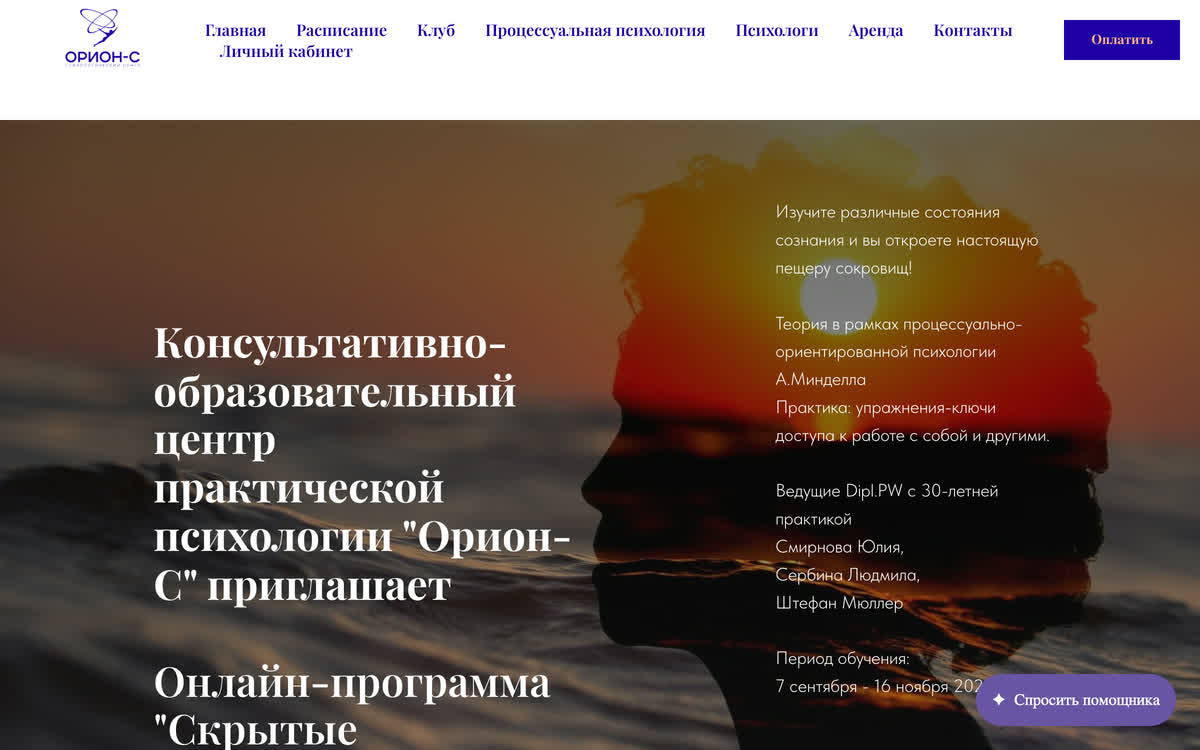
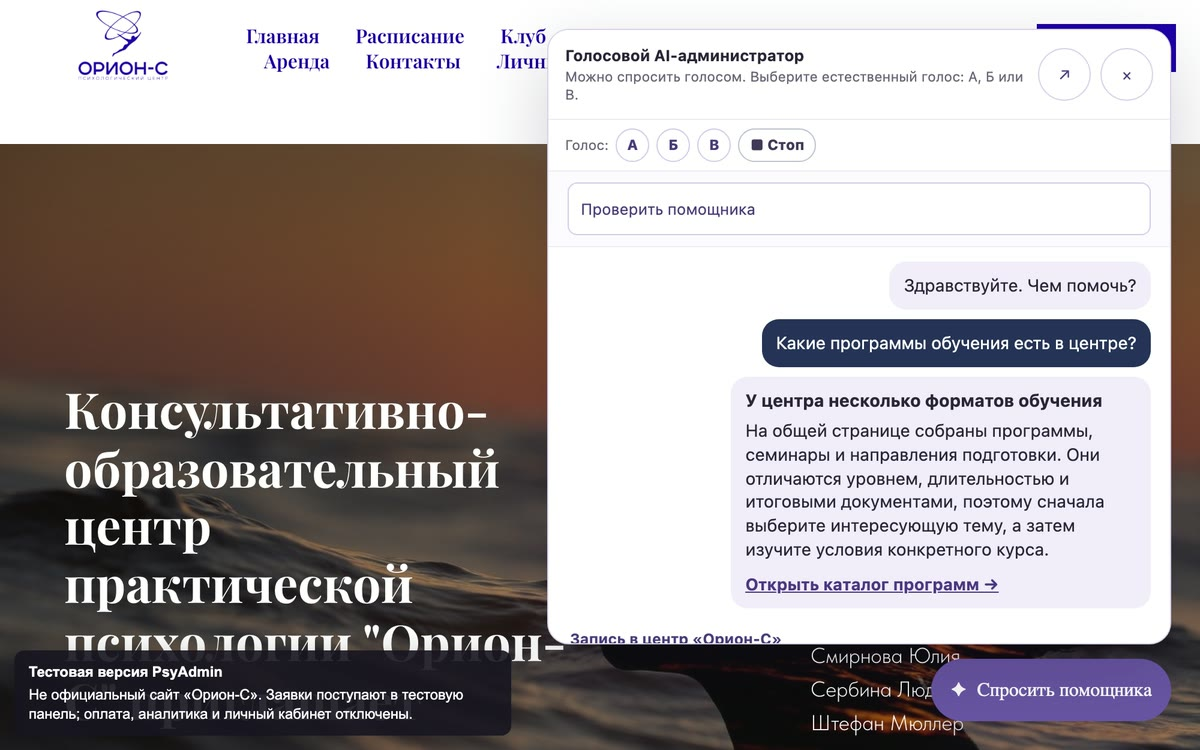
Кадр Psy Admin: на нём теперь виден сам помощник
Сергей: «на картинке нет моего помощника, а вся фишка в помощнике».

Снято с живой v1 на бою: открыт помощник, задан настоящий вопрос «какие
программы обучения есть в центре», получен настоящий ответ по страницам
центра, рядом видны кнопки выбора голоса и запись в центр. Ничего не
подставлено и не нарисовано — это снимок работающей страницы.

Кадр снят на 1000×625 вместо 1280×860 намеренно: на широком окне панель
занимала треть ширины и «фишка» опять терялась в общей странице. Тот же
файл идёт и на карточку, и в обе версии «Пути».

Alt и подпись переписаны под то, что на кадре есть сейчас: раньше они
обещали кнопку в углу закрытой страницы, а теперь там разговор.

По дороге поймал свою же ошибку в съёмочном скрипте: искал поле ввода
селектором input[type=text], а у поля атрибута type нет вовсе — селектор не
совпадал, вопрос уходил пустым, и в ответе оставалось только приветствие.
Снимок при этом получался и выглядел правдоподобно.

diff --git a/index.html b/index.html
@@ -321,10 +321,10 @@
 }
 </style>
 <h2>Живой цех</h2>
-<p class="svezhest">снимок 05:34 · цех работал в эту минуту</p>
-<div class="plitki"><div class="plitka"><b>54%</b><span>Процессор</span></div><div class="plitka"><b>23%</b><span>Видеоядро</span></div><div class="plitka"><b>12 ГБ</b><span>Свободно памяти</span></div><div class="plitka"><b>24 ГБ</b><span>Всего памяти</span></div></div>
-<ol class="zadachi"><li class="running"><div class="verh"><span class="kto">сессия</span><span class="kogda">только что</span></div><div class="niz"><span class="chto">задача 20</span><span class="skolko">16 событий · идёт 7 мин · mac · running</span></div></li><li class="running"><div class="verh"><span class="kto">сессия</span><span class="kogda">только что</span></div><div class="niz"><span class="chto">задача 30</span><span class="skolko">2 событий · mac · running</span></div></li><li class="completed"><div class="verh"><span class="kto">сессия</span><span class="kogda">4 мин назад</span></div><div class="niz"><span class="chto">задача 31</span><span class="skolko">82 событий · идёт 5 мин · mac · completed</span></div></li><li class="completed"><div class="verh"><span class="kto">Рот</span><span class="kogda">6 мин назад</span></div><div class="niz"><span class="chto">задача 2</span><span class="skolko">15 событий · идёт 3 мин · mac · completed</span></div></li><li class="completed"><div class="verh"><span class="kto">сессия</span><span class="kogda">6 мин назад</span></div><div class="niz"><span class="chto">задача 3</span><span class="skolko">5 событий · mac · completed</span></div></li></ol>
-<details class="lenta"><summary>Лента событий — последние 40 из 120</summary><ol><li><span class="kto">сессия</span><span class="chto">задача 20</span><span class="kogda">только что</span></li><li><span class="kto">сессия</span><span class="chto">задача 30</span><span class="kogda">только что</span></li><li><span class="kto">сессия</span><span class="chto">задача 30</span><span class="kogda">только что</span></li><li><span class="kto">сессия</span><span class="chto">задача 20</span><span class="kogda">2 мин назад</span></li><li><span class="kto">сессия</span><span class="chto">задача 20</span><span class="kogda">3 мин назад</span></li><li><span class="kto">сессия</span><span class="chto">задача 20</span><span class="kogda">3 мин назад</span></li><li><span class="kto">сессия</span><span class="chto">задача 31</span><span class="kogda">4 мин назад</span></li><li><span class="kto">сессия</span><span class="chto">задача 31</span><span class="kogda">4 мин назад</span></li><li><span class="kto">сессия</span><span class="chto">задача 20</span><span class="kogda">4 мин назад</span></li><li><span class="kto">сессия</span><span class="chto">задача 31</span><span class="kogda">4 мин назад</span></li><li><span class="kto">сессия</span><span class="chto">задача 31</span><span class="kogda">4 мин назад</span></li><li><span class="kto">сессия</span><span class="chto">задача 31</span><span class="kogda">4 мин назад</span></li><li><span class="kto">сессия</span><span class="chto">задача 31</span><span class="kogda">4 мин назад</span></li><li><span class="kto">сессия</span><span class="chto">задача 31</span><span class="kogda">5 мин назад</span></li><li><span class="kto">сессия</span><span class="chto">задача 31</span><span class="kogda">5 мин назад</span></li><li><span class="kto">сессия</span><span class="chto">задача 31</span><span class="kogda">5 мин назад</span></li><li><span class="kto">сессия</span><span class="chto">задача 31</span><span class="kogda">5 мин назад</span></li><li><span class="kto">сессия</span><span class="chto">задача 31</span><span class="kogda">5 мин назад</span></li><li><span class="kto">сессия</span><span class="chto">задача 31</span><span class="kogda">5 мин назад</span></li><li><span class="kto">сессия</span><span class="chto">задача 31</span><span class="kogda">5 мин назад</span></li><li><span class="kto">сессия</span><span class="chto">задача 31</span><span class="kogda">5 мин назад</span></li><li><span class="kto">сессия</span><span class="chto">задача 20</span><span class="kogda">5 мин назад</span></li><li><span class="kto">сессия</span><span class="chto">задача 31</span><span class="kogda">5 мин назад</span></li><li><span class="kto">сессия</span><span class="chto">задача 31</span><span class="kogda">5 мин назад</span></li><li><span class="kto">сессия</span><span class="chto">задача 20</span><span class="kogda">5 мин назад</span></li><li><span class="kto">сессия</span><span class="chto">задача 20</span><span class="kogda">5 мин назад</span></li><li><span class="kto">сессия</span><span class="chto">задача 31</span><span class="kogda">5 мин назад</span></li><li><span class="kto">сессия</span><span class="chto">задача 31</span><span class="kogda">5 мин назад</span></li><li><span class="kto">сессия</span><span class="chto">задача 31</span><span class="kogda">5 мин назад</span></li><li><span class="kto">сессия</span><span class="chto">задача 31</span><span class="kogda">5 мин назад</span></li><li><span class="kto">сессия</span><span class="chto">задача 31</span><span class="kogda">5 мин назад</span></li><li><span class="kto">сессия</span><span class="chto">задача 31</span><span class="kogda">5 мин назад</span></li><li><span class="kto">сессия</span><span class="chto">задача 31</span><span class="kogda">5 мин назад</span></li><li><span class="kto">сессия</span><span class="chto">задача 31</span><span class="kogda">5 мин назад</span></li><li><span class="kto">сессия</span><span class="chto">задача 31</span><span class="kogda">5 мин назад</span></li><li><span class="kto">сессия</span><span class="chto">задача 31</span><span class="kogda">5 мин назад</span></li><li><span class="kto">сессия</span><span class="chto">задача 31</span><span class="kogda">5 мин назад</span></li><li><span class="kto">Рот</span><span class="chto">задача 2</span><span class="kogda">6 мин назад</span></li><li><span class="kto">Рот</span><span class="chto">задача 2</span><span class="kogda">6 мин назад</span></li><li><span class="kto">сессия</span><span class="chto">задача 31</span><span class="kogda">6 мин назад</span></li></ol></details>
+<p class="svezhest">снимок 05:39 · цех работал в эту минуту</p>
+<div class="plitki"><div class="plitka"><b>97%</b><span>Процессор</span></div><div class="plitka"><b>59%</b><span>Видеоядро</span></div><div class="plitka"><b>7 ГБ</b><span>Свободно памяти</span></div><div class="plitka"><b>24 ГБ</b><span>Всего памяти</span></div></div>
+<ol class="zadachi"><li class="running"><div class="verh"><span class="kto">сессия</span><span class="kogda">1 мин назад</span></div><div class="niz"><span class="chto">задача 20</span><span class="skolko">23 событий · идёт 13 мин · mac · running</span></div></li><li class="completed"><div class="verh"><span class="kto">сессия</span><span class="kogda">4 мин назад</span></div><div class="niz"><span class="chto">задача 30</span><span class="skolko">24 событий · идёт 1 мин · mac · completed</span></div></li><li class="completed"><div class="verh"><span class="kto">сессия</span><span class="kogda">9 мин назад</span></div><div class="niz"><span class="chto">задача 31</span><span class="skolko">57 событий · идёт 4 мин · mac · completed</span></div></li><li class="completed"><div class="verh"><span class="kto">Рот</span><span class="kogda">11 мин назад</span></div><div class="niz"><span class="chto">задача 2</span><span class="skolko">11 событий · идёт 2 мин · mac · completed</span></div></li><li class="completed"><div class="verh"><span class="kto">сессия</span><span class="kogda">12 мин назад</span></div><div class="niz"><span class="chto">задача 3</span><span class="skolko">5 событий · mac · completed</span></div></li></ol>
+<details class="lenta"><summary>Лента событий — последние 40 из 120</summary><ol><li><span class="kto">сессия</span><span class="chto">задача 20</span><span class="kogda">1 мин назад</span></li><li><span class="kto">сессия</span><span class="chto">задача 20</span><span class="kogda">1 мин назад</span></li><li><span class="kto">сессия</span><span class="chto">задача 20</span><span class="kogda">1 мин назад</span></li><li><span class="kto">сессия</span><span class="chto">задача 20</span><span class="kogda">2 мин назад</span></li><li><span class="kto">сессия</span><span class="chto">задача 20</span><span class="kogda">3 мин назад</span></li><li><span class="kto">сессия</span><span class="chto">задача 20</span><span class="kogda">3 мин назад</span></li><li><span class="kto">сессия</span><span class="chto">задача 20</span><span class="kogda">4 мин назад</span></li><li><span class="kto">сессия</span><span class="chto">задача 20</span><span class="kogda">4 мин назад</span></li><li><span class="kto">сессия</span><span class="chto">задача 30</span><span class="kogda">4 мин назад</span></li><li><span class="kto">сессия</span><span class="chto">задача 30</span><span class="kogda">4 мин назад</span></li><li><span class="kto">сессия</span><span class="chto">задача 30</span><span class="kogda">5 мин назад</span></li><li><span class="kto">сессия</span><span class="chto">задача 30</span><span class="kogda">5 мин назад</span></li><li><span class="kto">сессия</span><span class="chto">задача 30</span><span class="kogda">5 мин назад</span></li><li><span class="kto">сессия</span><span class="chto">задача 30</span><span class="kogda">5 мин назад</span></li><li><span class="kto">сессия</span><span class="chto">задача 30</span><span class="kogda">5 мин назад</span></li><li><span class="kto">сессия</span><span class="chto">задача 30</span><span class="kogda">5 мин назад</span></li><li><span class="kto">сессия</span><span class="chto">задача 30</span><span class="kogda">5 мин назад</span></li><li><span class="kto">сессия</span><span class="chto">задача 30</span><span class="kogda">5 мин назад</span></li><li><span class="kto">сессия</span><span class="chto">задача 30</span><span class="kogda">6 мин назад</span></li><li><span class="kto">сессия</span><span class="chto">задача 30</span><span class="kogda">6 мин назад</span></li><li><span class="kto">сессия</span><span class="chto">задача 30</span><span class="kogda">6 мин назад</span></li><li><span class="kto">сессия</span><span class="chto">задача 30</span><span class="kogda">6 мин назад</span></li><li><span class="kto">сессия</span><span class="chto">задача 30</span><span class="kogda">6 мин назад</span></li><li><span class="kto">сессия</span><span class="chto">задача 30</span><span class="kogda">6 мин назад</span></li><li><span class="kto">сессия</span><span class="chto">задача 30</span><span class="kogda">6 мин назад</span></li><li><span class="kto">сессия</span><span class="chto">задача 30</span><span class="kogda">6 мин назад</span></li><li><span class="kto">сессия</span><span class="chto">задача 30</span><span class="kogda">6 мин назад</span></li><li><span class="kto">сессия</span><span class="chto">задача 30</span><span class="kogda">6 мин назад</span></li><li><span class="kto">сессия</span><span class="chto">задача 30</span><span class="kogda">6 мин назад</span></li><li><span class="kto">сессия</span><span class="chto">задача 30</span><span class="kogda">6 мин назад</span></li><li><span class="kto">сессия</span><span class="chto">задача 30</span><span class="kogda">6 мин назад</span></li><li><span class="kto">сессия</span><span class="chto">задача 30</span><span class="kogda">6 мин назад</span></li><li><span class="kto">сессия</span><span class="chto">задача 20</span><span class="kogda">8 мин назад</span></li><li><span class="kto">сессия</span><span class="chto">задача 20</span><span class="kogda">9 мин назад</span></li><li><span class="kto">сессия</span><span class="chto">задача 20</span><span class="kogda">9 мин назад</span></li><li><span class="kto">сессия</span><span class="chto">задача 31</span><span class="kogda">9 мин назад</span></li><li><span class="kto">сессия</span><span class="chto">задача 31</span><span class="kogda">9 мин назад</span></li><li><span class="kto">сессия</span><span class="chto">задача 20</span><span class="kogda">10 мин назад</span></li><li><span class="kto">сессия</span><span class="chto">задача 31</span><span class="kogda">10 мин назад</span></li><li><span class="kto">сессия</span><span class="chto">задача 31</span><span class="kogda">10 мин назад</span></li></ol></details>
 </section>
         </div>
       </section>
@@ -337,7 +337,7 @@
         </div>
         <div class="grid" data-shared-details>
         <article class="card" id="p-psy-ai-admin">
-          <a class="card-shot-link" href="/psy-admin/" data-umami-event="project-open" data-umami-event-project="psy-admin" aria-label="Открыть: Psy AI Admin"><figure class="shot"><img src="/assets/shots/psy-admin-2026.jpg?v=97cfcf1f" alt="Главная сайта «Орион-С» с помощником: кнопка «Спросить помощника» в правом нижнем углу живой страницы заказчицы"
+          <a class="card-shot-link" href="/psy-admin/" data-umami-event="project-open" data-umami-event-project="psy-admin" aria-label="Открыть: Psy AI Admin"><figure class="shot"><img src="/assets/shots/psy-admin-2026.jpg?v=9e324695" alt="Живой сайт «Орион-С» с открытым помощником: на вопрос «какие программы обучения есть в центре» он отвечает по страницам центра, рядом кнопки выбора голоса"
                 width="1200" height="750" decoding="async" loading="lazy" fetchpriority="low"></figure></a>
           <div class="card-head">
             <p class="kicker">Продукт · демо</p>

diff --git a/data/tseh/zhivoy-tseh.html b/data/tseh/zhivoy-tseh.html
@@ -46,8 +46,8 @@
 }
 </style>
 <h2>Живой цех</h2>
-<p class="svezhest">снимок 05:34 · цех работал в эту минуту</p>
-<div class="plitki"><div class="plitka"><b>54%</b><span>Процессор</span></div><div class="plitka"><b>23%</b><span>Видеоядро</span></div><div class="plitka"><b>12 ГБ</b><span>Свободно памяти</span></div><div class="plitka"><b>24 ГБ</b><span>Всего памяти</span></div></div>
-<ol class="zadachi"><li class="running"><div class="verh"><span class="kto">сессия</span><span class="kogda">только что</span></div><div class="niz"><span class="chto">задача 20</span><span class="skolko">16 событий · идёт 7 мин · mac · running</span></div></li><li class="running"><div class="verh"><span class="kto">сессия</span><span class="kogda">только что</span></div><div class="niz"><span class="chto">задача 30</span><span class="skolko">2 событий · mac · running</span></div></li><li class="completed"><div class="verh"><span class="kto">сессия</span><span class="kogda">4 мин назад</span></div><div class="niz"><span class="chto">задача 31</span><span class="skolko">82 событий · идёт 5 мин · mac · completed</span></div></li><li class="completed"><div class="verh"><span class="kto">Рот</span><span class="kogda">6 мин назад</span></div><div class="niz"><span class="chto">задача 2</span><span class="skolko">15 событий · идёт 3 мин · mac · completed</span></div></li><li class="completed"><div class="verh"><span class="kto">сессия</span><span class="kogda">6 мин назад</span></div><div class="niz"><span class="chto">задача 3</span><span class="skolko">5 событий · mac · completed</span></div></li></ol>
-<details class="lenta"><summary>Лента событий — последние 40 из 120</summary><ol><li><span class="kto">сессия</span><span class="chto">задача 20</span><span class="kogda">только что</span></li><li><span class="kto">сессия</span><span class="chto">задача 30</span><span class="kogda">только что</span></li><li><span class="kto">сессия</span><span class="chto">задача 30</span><span class="kogda">только что</span></li><li><span class="kto">сессия</span><span class="chto">задача 20</span><span class="kogda">2 мин назад</span></li><li><span class="kto">сессия</span><span class="chto">задача 20</span><span class="kogda">3 мин назад</span></li><li><span class="kto">сессия</span><span class="chto">задача 20</span><span class="kogda">3 мин назад</span></li><li><span class="kto">сессия</span><span class="chto">задача 31</span><span class="kogda">4 мин назад</span></li><li><span class="kto">сессия</span><span class="chto">задача 31</span><span class="kogda">4 мин назад</span></li><li><span class="kto">сессия</span><span class="chto">задача 20</span><span class="kogda">4 мин назад</span></li><li><span class="kto">сессия</span><span class="chto">задача 31</span><span class="kogda">4 мин назад</span></li><li><span class="kto">сессия</span><span class="chto">задача 31</span><span class="kogda">4 мин назад</span></li><li><span class="kto">сессия</span><span class="chto">задача 31</span><span class="kogda">4 мин назад</span></li><li><span class="kto">сессия</span><span class="chto">задача 31</span><span class="kogda">4 мин назад</span></li><li><span class="kto">сессия</span><span class="chto">задача 31</span><span class="kogda">5 мин назад</span></li><li><span class="kto">сессия</span><span class="chto">задача 31</span><span class="kogda">5 мин назад</span></li><li><span class="kto">сессия</span><span class="chto">задача 31</span><span class="kogda">5 мин назад</span></li><li><span class="kto">сессия</span><span class="chto">задача 31</span><span class="kogda">5 мин назад</span></li><li><span class="kto">сессия</span><span class="chto">задача 31</span><span class="kogda">5 мин назад</span></li><li><span class="kto">сессия</span><span class="chto">задача 31</span><span class="kogda">5 мин назад</span></li><li><span class="kto">сессия</span><span class="chto">задача 31</span><span class="kogda">5 мин назад</span></li><li><span class="kto">сессия</span><span class="chto">задача 31</span><span class="kogda">5 мин назад</span></li><li><span class="kto">сессия</span><span class="chto">задача 20</span><span class="kogda">5 мин назад</span></li><li><span class="kto">сессия</span><span class="chto">задача 31</span><span class="kogda">5 мин назад</span></li><li><span class="kto">сессия</span><span class="chto">задача 31</span><span class="kogda">5 мин назад</span></li><li><span class="kto">сессия</span><span class="chto">задача 20</span><span class="kogda">5 мин назад</span></li><li><span class="kto">сессия</span><span class="chto">задача 20</span><span class="kogda">5 мин назад</span></li><li><span class="kto">сессия</span><span class="chto">задача 31</span><span class="kogda">5 мин назад</span></li><li><span class="kto">сессия</span><span class="chto">задача 31</span><span class="kogda">5 мин назад</span></li><li><span class="kto">сессия</span><span class="chto">задача 31</span><span class="kogda">5 мин назад</span></li><li><span class="kto">сессия</span><span class="chto">задача 31</span><span class="kogda">5 мин назад</span></li><li><span class="kto">сессия</span><span class="chto">задача 31</span><span class="kogda">5 мин назад</span></li><li><span class="kto">сессия</span><span class="chto">задача 31</span><span class="kogda">5 мин назад</span></li><li><span class="kto">сессия</span><span class="chto">задача 31</span><span class="kogda">5 мин назад</span></li><li><span class="kto">сессия</span><span class="chto">задача 31</span><span class="kogda">5 мин назад</span></li><li><span class="kto">сессия</span><span class="chto">задача 31</span><span class="kogda">5 мин назад</span></li><li><span class="kto">сессия</span><span class="chto">задача 31</span><span class="kogda">5 мин назад</span></li><li><span class="kto">сессия</span><span class="chto">задача 31</span><span class="kogda">5 мин назад</span></li><li><span class="kto">Рот</span><span class="chto">задача 2</span><span class="kogda">6 мин назад</span></li><li><span class="kto">Рот</span><span class="chto">задача 2</span><span class="kogda">6 мин назад</span></li><li><span class="kto">сессия</span><span class="chto">задача 31</span><span class="kogda">6 мин назад</span></li></ol></details>
+<p class="svezhest">снимок 05:39 · цех работал в эту минуту</p>
+<div class="plitki"><div class="plitka"><b>97%</b><span>Процессор</span></div><div class="plitka"><b>59%</b><span>Видеоядро</span></div><div class="plitka"><b>7 ГБ</b><span>Свободно памяти</span></div><div class="plitka"><b>24 ГБ</b><span>Всего памяти</span></div></div>
+<ol class="zadachi"><li class="running"><div class="verh"><span class="kto">сессия</span><span class="kogda">1 мин назад</span></div><div class="niz"><span class="chto">задача 20</span><span class="skolko">23 событий · идёт 13 мин · mac · running</span></div></li><li class="completed"><div class="verh"><span class="kto">сессия</span><span class="kogda">4 мин назад</span></div><div class="niz"><span class="chto">задача 30</span><span class="skolko">24 событий · идёт 1 мин · mac · completed</span></div></li><li class="completed"><div class="verh"><span class="kto">сессия</span><span class="kogda">9 мин назад</span></div><div class="niz"><span class="chto">задача 31</span><span class="skolko">57 событий · идёт 4 мин · mac · completed</span></div></li><li class="completed"><div class="verh"><span class="kto">Рот</span><span class="kogda">11 мин назад</span></div><div class="niz"><span class="chto">задача 2</span><span class="skolko">11 событий · идёт 2 мин · mac · completed</span></div></li><li class="completed"><div class="verh"><span class="kto">сессия</span><span class="kogda">12 мин назад</span></div><div class="niz"><span class="chto">задача 3</span><span class="skolko">5 событий · mac · completed</span></div></li></ol>
+<details class="lenta"><summary>Лента событий — последние 40 из 120</summary><ol><li><span class="kto">сессия</span><span class="chto">задача 20</span><span class="kogda">1 мин назад</span></li><li><span class="kto">сессия</span><span class="chto">задача 20</span><span class="kogda">1 мин назад</span></li><li><span class="kto">сессия</span><span class="chto">задача 20</span><span class="kogda">1 мин назад</span></li><li><span class="kto">сессия</span><span class="chto">задача 20</span><span class="kogda">2 мин назад</span></li><li><span class="kto">сессия</span><span class="chto">задача 20</span><span class="kogda">3 мин назад</span></li><li><span class="kto">сессия</span><span class="chto">задача 20</span><span class="kogda">3 мин назад</span></li><li><span class="kto">сессия</span><span class="chto">задача 20</span><span class="kogda">4 мин назад</span></li><li><span class="kto">сессия</span><span class="chto">задача 20</span><span class="kogda">4 мин назад</span></li><li><span class="kto">сессия</span><span class="chto">задача 30</span><span class="kogda">4 мин назад</span></li><li><span class="kto">сессия</span><span class="chto">задача 30</span><span class="kogda">4 мин назад</span></li><li><span class="kto">сессия</span><span class="chto">задача 30</span><span class="kogda">5 мин назад</span></li><li><span class="kto">сессия</span><span class="chto">задача 30</span><span class="kogda">5 мин назад</span></li><li><span class="kto">сессия</span><span class="chto">задача 30</span><span class="kogda">5 мин назад</span></li><li><span class="kto">сессия</span><span class="chto">задача 30</span><span class="kogda">5 мин назад</span></li><li><span class="kto">сессия</span><span class="chto">задача 30</span><span class="kogda">5 мин назад</span></li><li><span class="kto">сессия</span><span class="chto">задача 30</span><span class="kogda">5 мин назад</span></li><li><span class="kto">сессия</span><span class="chto">задача 30</span><span class="kogda">5 мин назад</span></li><li><span class="kto">сессия</span><span class="chto">задача 30</span><span class="kogda">5 мин назад</span></li><li><span class="kto">сессия</span><span class="chto">задача 30</span><span class="kogda">6 мин назад</span></li><li><span class="kto">сессия</span><span class="chto">задача 30</span><span class="kogda">6 мин назад</span></li><li><span class="kto">сессия</span><span class="chto">задача 30</span><span class="kogda">6 мин назад</span></li><li><span class="kto">сессия</span><span class="chto">задача 30</span><span class="kogda">6 мин назад</span></li><li><span class="kto">сессия</span><span class="chto">задача 30</span><span class="kogda">6 мин назад</span></li><li><span class="kto">сессия</span><span class="chto">задача 30</span><span class="kogda">6 мин назад</span></li><li><span class="kto">сессия</span><span class="chto">задача 30</span><span class="kogda">6 мин назад</span></li><li><span class="kto">сессия</span><span class="chto">задача 30</span><span class="kogda">6 мин назад</span></li><li><span class="kto">сессия</span><span class="chto">задача 30</span><span class="kogda">6 мин назад</span></li><li><span class="kto">сессия</span><span class="chto">задача 30</span><span class="kogda">6 мин назад</span></li><li><span class="kto">сессия</span><span class="chto">задача 30</span><span class="kogda">6 мин назад</span></li><li><span class="kto">сессия</span><span class="chto">задача 30</span><span class="kogda">6 мин назад</span></li><li><span class="kto">сессия</span><span class="chto">задача 30</span><span class="kogda">6 мин назад</span></li><li><span class="kto">сессия</span><span class="chto">задача 30</span><span class="kogda">6 мин назад</span></li><li><span class="kto">сессия</span><span class="chto">задача 20</span><span class="kogda">8 мин назад</span></li><li><span class="kto">сессия</span><span class="chto">задача 20</span><span class="kogda">9 мин назад</span></li><li><span class="kto">сессия</span><span class="chto">задача 20</span><span class="kogda">9 мин назад</span></li><li><span class="kto">сессия</span><span class="chto">задача 31</span><span class="kogda">9 мин назад</span></li><li><span class="kto">сессия</span><span class="chto">задача 31</span><span class="kogda">9 мин назад</span></li><li><span class="kto">сессия</span><span class="chto">задача 20</span><span class="kogda">10 мин назад</span></li><li><span class="kto">сессия</span><span class="chto">задача 31</span><span class="kogda">10 мин назад</span></li><li><span class="kto">сессия</span><span class="chto">задача 31</span><span class="kogda">10 мин назад</span></li></ol></details>
 </section>

diff --git a/put/comic/index.html b/put/comic/index.html
@@ -149,7 +149,7 @@
             <div class="put-fact"><dt>Решение</dt><dd>У каждой вещи должна быть короткая проверяемая финишная черта и живой человек, который увидит результат.</dd></div>
             <div class="put-fact"><dt>Нашлось</dt><dd>Новая функция не спасает незавершённое: без понятного «готово» она только открывает ещё одну дверь. А честный список — это два списка, и второй важнее. Непреодолённое на сегодня: связь между Маком и ПК держится на файловом мосте, в который надо заглядывать самому — ящик, в который никто не смотрит, неотличим от отсутствующего канала. ПК из-за этого простаивает, а парольный ключ между машинами так и не заведён. Это названо здесь не для красоты: пока связи нет, вторая машина не работает, сколько бы задач ей ни назначали.</dd></div>
           </dl>
-          <figure class="put-proof"><img src="/assets/shots/psy-admin-2026.jpg?v=97cfcf1f" alt="" width="1200" height="750" decoding="async" loading="lazy"><figcaption><p class="put-proof-kind">что сделано и что нет</p><p class="put-proof-label">Путь · Орион-С · QueQuest · игры · мост Мак↔ПК — не готов</p></figcaption></figure>
+          <figure class="put-proof"><img src="/assets/shots/psy-admin-2026.jpg?v=9e324695" alt="" width="1200" height="750" decoding="async" loading="lazy"><figcaption><p class="put-proof-kind">что сделано и что нет</p><p class="put-proof-label">Путь · Орион-С · QueQuest · игры · мост Мак↔ПК — не готов</p></figcaption></figure>
 
           <details class="put-details"><summary>Как это устроено</summary><p>Факты обеих версий страницы берутся из одного источника. Технические детали спрятаны здесь, чтобы рассказ не становился стеной текста.</p></details>
         </div>

diff --git a/put/index.html b/put/index.html
@@ -149,7 +149,7 @@
             <div class="put-fact"><dt>Решение</dt><dd>У каждой вещи должна быть короткая проверяемая финишная черта и живой человек, который увидит результат.</dd></div>
             <div class="put-fact"><dt>Нашлось</dt><dd>Новая функция не спасает незавершённое: без понятного «готово» она только открывает ещё одну дверь. А честный список — это два списка, и второй важнее. Непреодолённое на сегодня: связь между Маком и ПК держится на файловом мосте, в который надо заглядывать самому — ящик, в который никто не смотрит, неотличим от отсутствующего канала. ПК из-за этого простаивает, а парольный ключ между машинами так и не заведён. Это названо здесь не для красоты: пока связи нет, вторая машина не работает, сколько бы задач ей ни назначали.</dd></div>
           </dl>
-          <figure class="put-proof"><img src="/assets/shots/psy-admin-2026.jpg?v=97cfcf1f" alt="" width="1200" height="750" decoding="async" loading="lazy"><figcaption><p class="put-proof-kind">что сделано и что нет</p><p class="put-proof-label">Путь · Орион-С · QueQuest · игры · мост Мак↔ПК — не готов</p></figcaption></figure>
+          <figure class="put-proof"><img src="/assets/shots/psy-admin-2026.jpg?v=9e324695" alt="" width="1200" height="750" decoding="async" loading="lazy"><figcaption><p class="put-proof-kind">что сделано и что нет</p><p class="put-proof-label">Путь · Орион-С · QueQuest · игры · мост Мак↔ПК — не готов</p></figcaption></figure>
 
           <details class="put-details"><summary>Как это устроено</summary><p>Факты обеих версий страницы берутся из одного источника. Технические детали спрятаны здесь, чтобы рассказ не становился стеной текста.</p></details>
         </div>
